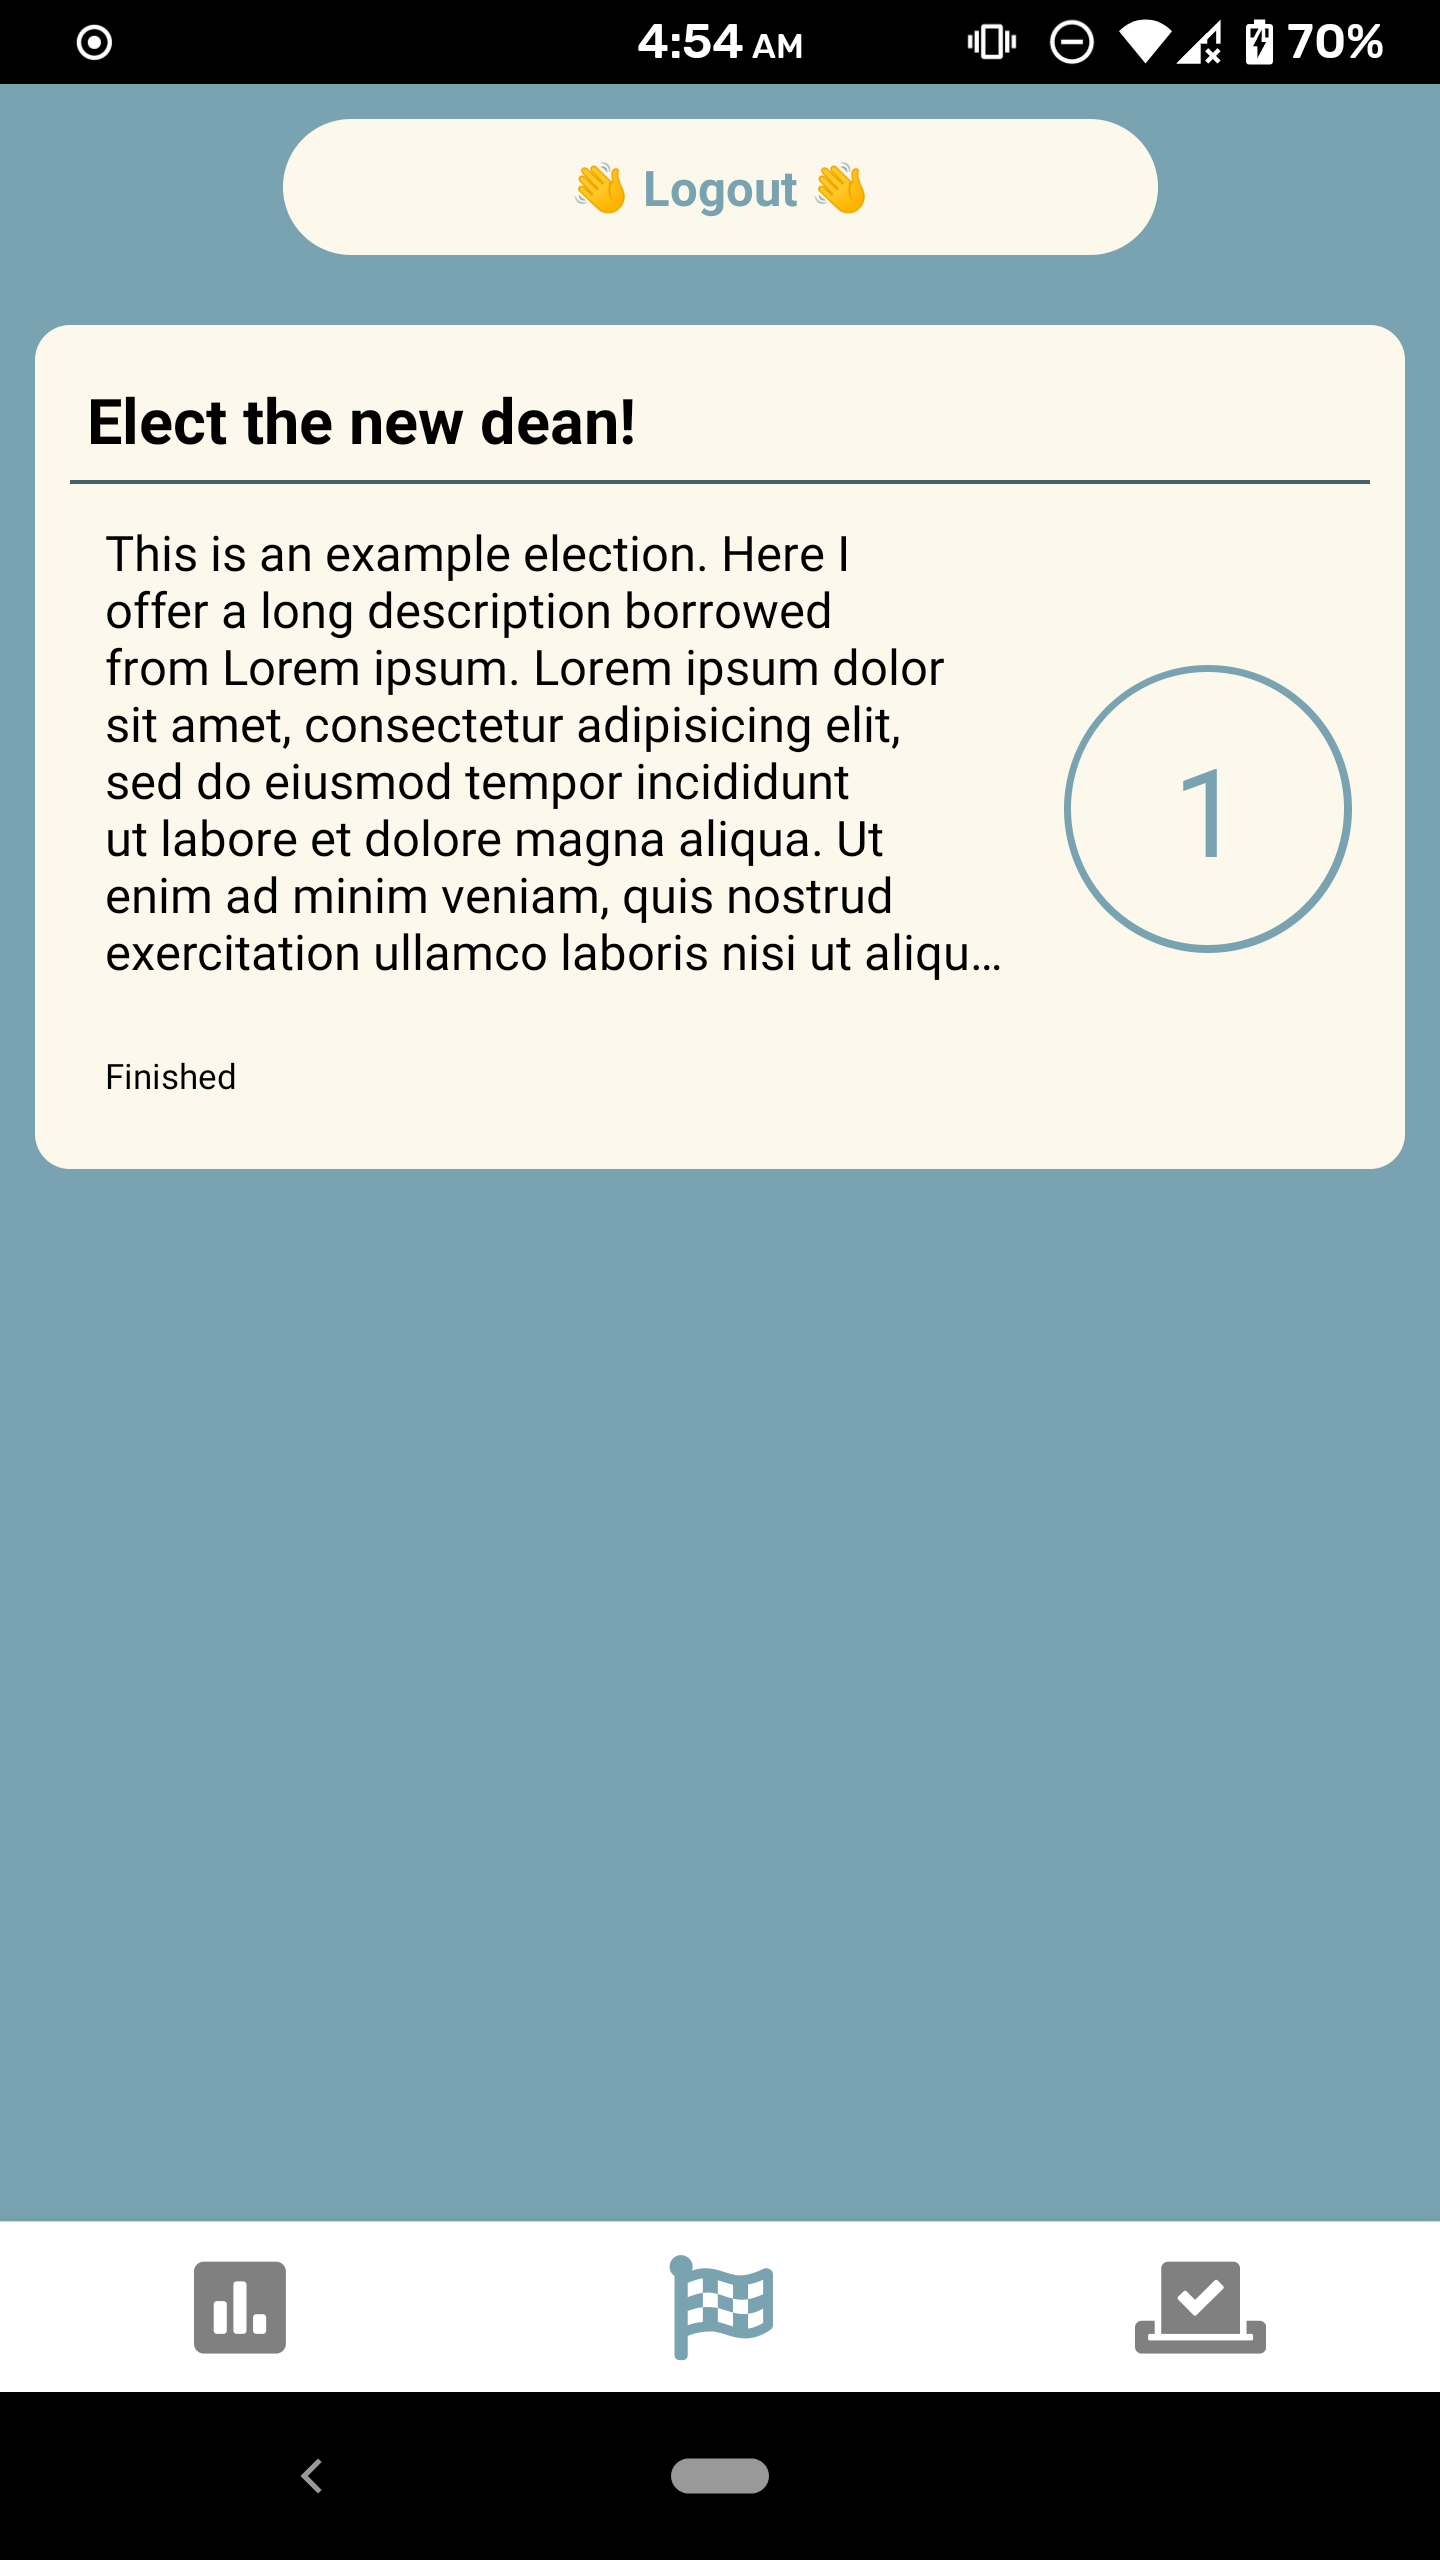
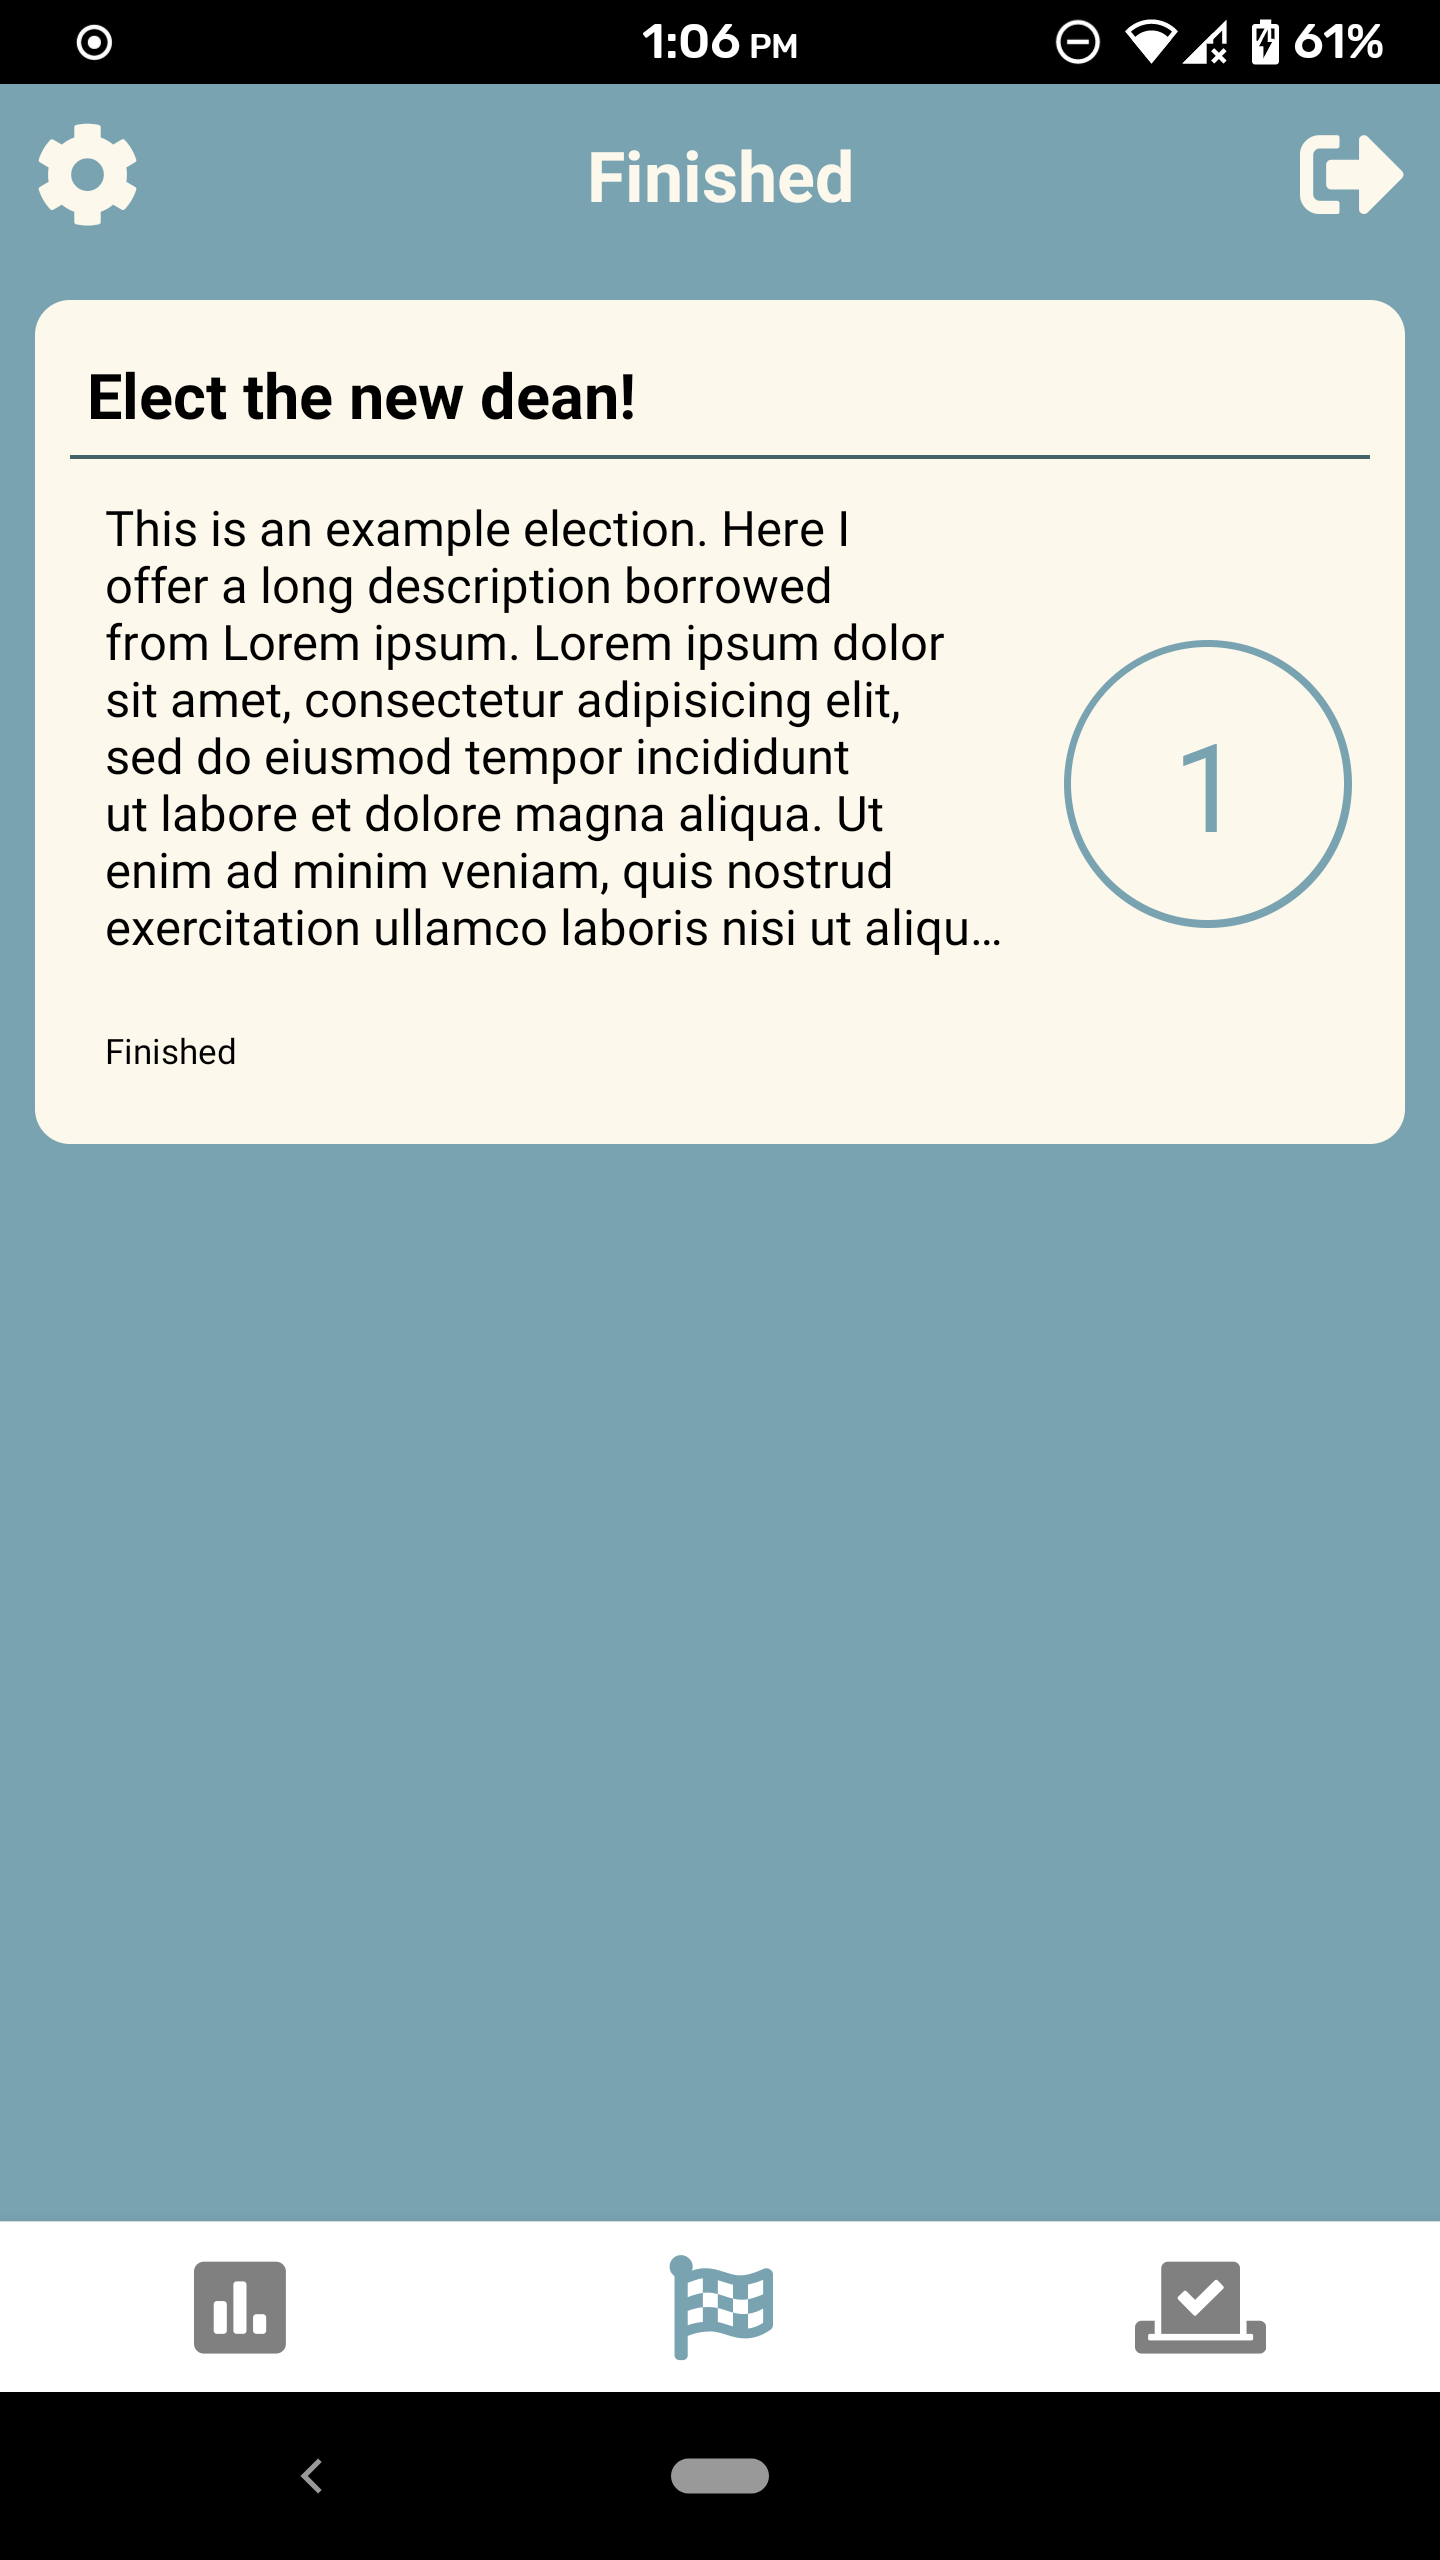
Change page header

Changed region(s): [[0.0312, 0.0, 0.9688, 0.375], [0.0312, 0.4062, 0.9688, 0.4688], [0.7188, 0.25, 0.9375, 0.375]]

diff --git a/src/components/PageHeader.js b/src/components/PageHeader.js
@@ -1,0 +1,45 @@
+import React from 'react';
+import {View, TouchableOpacity, Text} from 'react-native';
+import FontAwesome5 from 'react-native-vector-icons/FontAwesome5';
+import {theme} from '../styles/theme';
+
+function PageHeader(props) {
+  return (
+    <View
+      style={{
+        flexDirection: 'row',
+        justifyContent: 'space-between',
+        padding: 10,
+        alignItems: 'flex-start'
+      }}>
+      <TouchableOpacity>
+        <FontAwesome5
+          name="cog"
+          color={theme.SECONDARY_COLOR}
+          size={30}
+          solid
+        />
+      </TouchableOpacity>
+
+      <Text
+        style={{
+          color: theme.SECONDARY_COLOR,
+          alignSelf: 'center',
+          fontSize: theme.FONT_SIZE_LARGE,
+          fontWeight: 'bold',
+        }}>
+        {props.title}
+      </Text>
+      <TouchableOpacity onPress={props.onSelect}>
+        <FontAwesome5
+          name="sign-out-alt"
+          color={theme.SECONDARY_COLOR}
+          size={30}
+          solid
+        />
+      </TouchableOpacity>
+    </View>
+  );
+}
+
+export {PageHeader};

diff --git a/src/pages/VotedProjects.js b/src/pages/VotedProjects.js
@@ -12,7 +12,7 @@ import {
 import {fakeStorage} from '../fakeStorage';
 import {project_style} from '../styles/components_styles';
 import {theme} from '../styles/theme';
-import {CircleCount, Loading, SmallButton, ProjectCard} from '../components';
+import {CircleCount, Loading, SmallButton, ProjectCard, PageHeader} from '../components';
 
 function VotedProjects({navigation}) {
   const [projects, setProjects] = useState([]);
@@ -45,7 +45,7 @@ function VotedProjects({navigation}) {
 
   return (
     <SafeAreaView style={{backgroundColor: theme.PRIMARY_COLOR, flex: 1}}>
-      <SmallButton buttonTitle="👋 Logout 👋" onSelect={handleLogoutRequest} />
+      <PageHeader onSelect={handleLogoutRequest} title="Voted" />
       <FlatList
         keyExtractor={(item, index) => index.toString()}
         data={projects}

diff --git a/src/pages/FinishedElections.js b/src/pages/FinishedElections.js
@@ -12,7 +12,7 @@ import {
 import {fakeStorage} from '../fakeStorage';
 import {project_style} from '../styles/components_styles';
 import {theme} from '../styles/theme';
-import {CircleCount, Loading, SmallButton, ProjectCard} from '../components';
+import {CircleCount, Loading, SmallButton, ProjectCard, PageHeader} from '../components';
 
 function FinishedElections(props) {
   const [projects, setProjects] = useState([]);
@@ -44,7 +44,7 @@ function FinishedElections(props) {
 
   return (
     <SafeAreaView style={{backgroundColor: theme.PRIMARY_COLOR, flex: 1}}>
-      <SmallButton buttonTitle="👋 Logout 👋" onSelect={handleLogoutRequest} />
+      <PageHeader onSelect={handleLogoutRequest} title="Finished" />
       <FlatList
         keyExtractor={(item, index) => index.toString()}
         data={projects}

diff --git a/src/pages/Projects.js b/src/pages/Projects.js
@@ -12,7 +12,7 @@ import {
 import {fakeStorage} from '../fakeStorage';
 import {project_style} from '../styles/components_styles';
 import {theme} from '../styles/theme';
-import {CircleCount, Loading, SmallButton, ProjectCard} from '../components';
+import {CircleCount, Loading, SmallButton, ProjectCard, PageHeader} from '../components';
 
 function Projects(props) {
   const [projects, setProjects] = useState([]);
@@ -45,7 +45,7 @@ function Projects(props) {
 
   return (
     <SafeAreaView style={{backgroundColor: theme.PRIMARY_COLOR, flex: 1}}>
-      <SmallButton buttonTitle="👋 Logout 👋" onSelect={handleLogoutRequest} />
+      <PageHeader onSelect={handleLogoutRequest} title="Polls" />
       <FlatList
         keyExtractor={(_, index) => index.toString()}
         data={projects}

diff --git a/src/components/index.js b/src/components/index.js
@@ -3,3 +3,4 @@ export * from './Input';
 export * from './Loading';
 export * from './CircleCount';
 export * from './ProjectCard';
+export * from './PageHeader';
